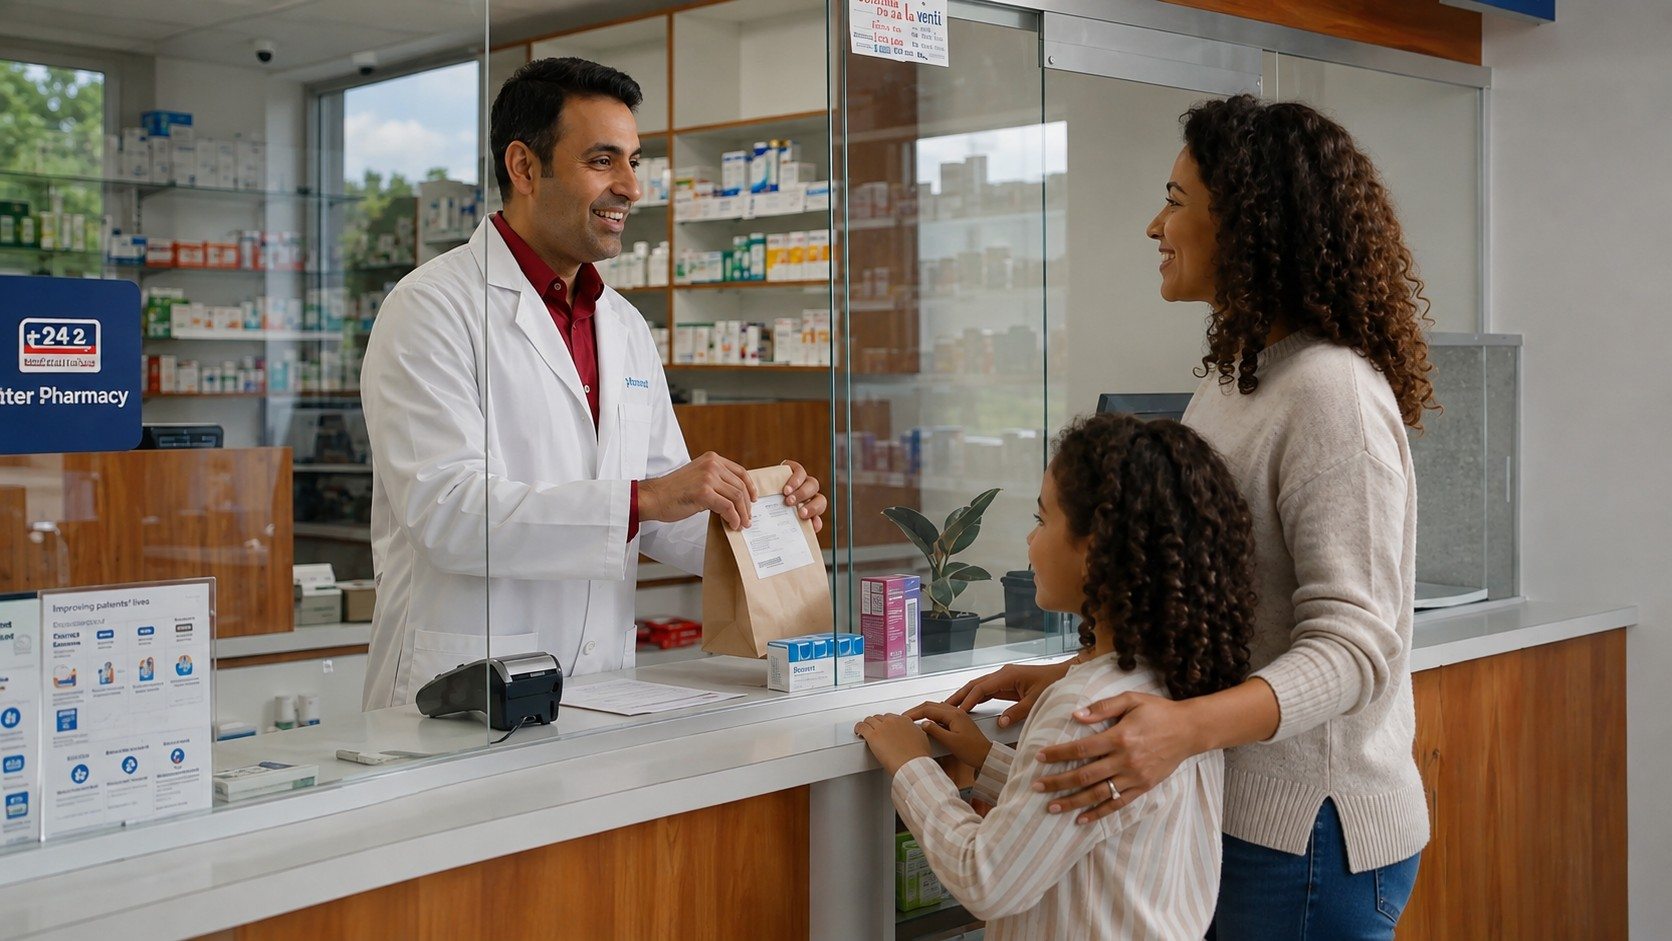
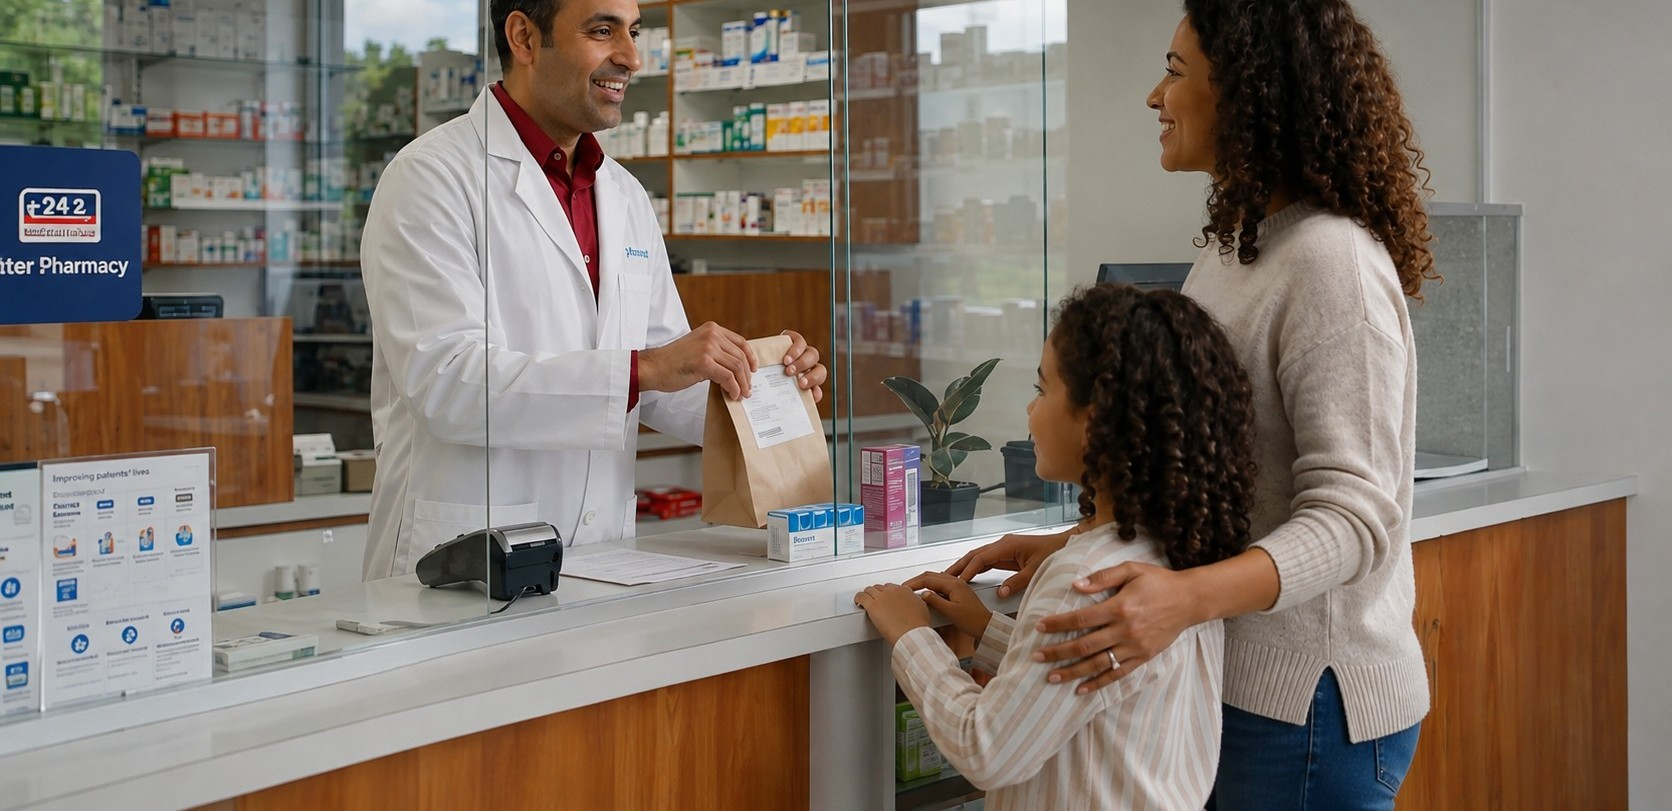
homepage: physically crop hero image 130px from top (just above pharmacist hair)

diff --git a/test.html b/test.html
@@ -215,7 +215,7 @@ nav{
 }
 .hero-photo img{
   position:absolute;bottom:0;left:0;right:0;top:0;
-  width:100%;height:100%;object-fit:cover;object-position:65% 35%;
+  width:100%;height:100%;object-fit:cover;object-position:65% top;
 }
 .hero-photo-fade{
   position:absolute;inset:0;
